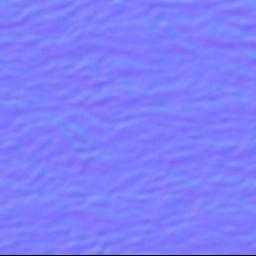
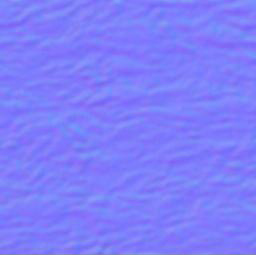
调整水波shader效果

Changed region(s): [[0.0, 0.9882, 1.0, 1.0]]

diff --git a/project/OpenGL/OpenGL/Class/OpenglStateMultTextureWave.cpp b/project/OpenGL/OpenGL/Class/OpenglStateMultTextureWave.cpp
@@ -83,9 +83,6 @@ void OpenglStateMultTextureWave::rendeCommand()
 	bindTexture(_texture1);
 	setInt(_shaderProgram, "texture_normal", 1); // 这里的1就对应了前面的GL_TEXTURE1
 
-	glTexParameteri(GL_TEXTURE_2D, GL_TEXTURE_WRAP_S, GL_CLAMP_TO_EDGE); 
-	glTexParameteri(GL_TEXTURE_2D, GL_TEXTURE_WRAP_T, GL_CLAMP_TO_EDGE);
-
 	if (_isUseEBORender)
 	{
 		glDrawElements(GL_TRIANGLES, 6, GL_UNSIGNED_INT, 0); //使用索引绘制
